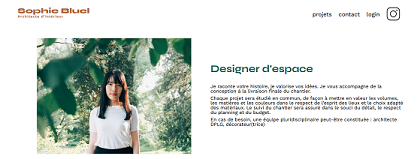
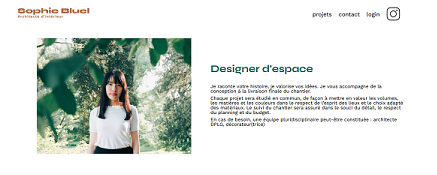
corrections mineures de style css

diff --git a/style.css b/style.css
@@ -98,6 +98,25 @@
     text-align: center;
 }
 
+.card-body {
+    
+    display:flex;
+    flex-direction:column;
+    width: 100%;
+    height: 215px;
+    box-sizing: border-box;
+    
+}
+
+.card-body.card-text {
+    margin-bottom: 5px; 
+}
+
+.text-center {
+    padding-top:1rem;
+    padding-bottom: 1rem;
+}
+
 /* contact */
 .contactColumn {
     display: flex;
